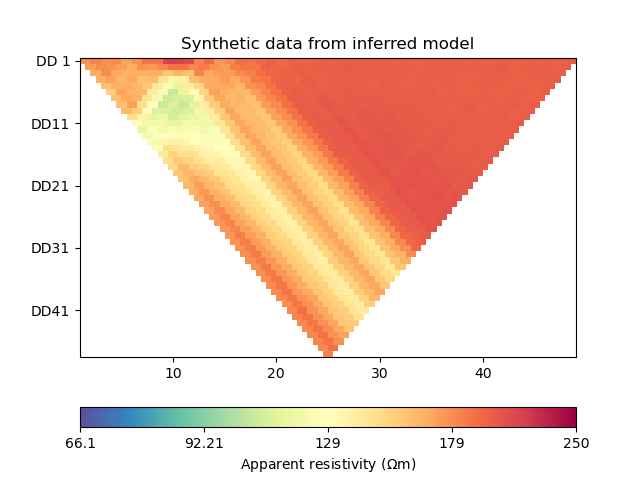
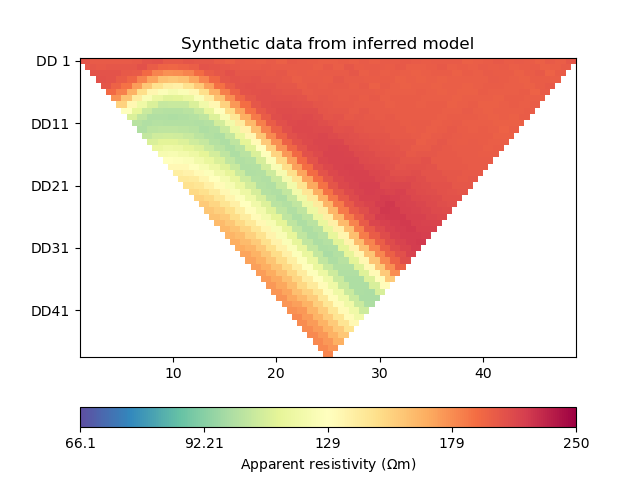
perf: better settings for ERT - torch.otpim

Changed region(s): [[0.125, 0.125, 0.6875, 0.75]]

diff --git a/notebooks/pygimli_ert/pygimli_ert_tri_torch_optim.py b/notebooks/pygimli_ert/pygimli_ert_tri_torch_optim.py
@@ -84,7 +84,7 @@ ert_problem.set_initial_model(start_model_log)
 # CoFI - define InversionOptions
 inv_options_torch = InversionOptions()
 inv_options_torch.set_tool("torch.optim")
-inv_options_torch.set_params(algorithm="RAdam", lr=0.025, num_iterations=10)
+inv_options_torch.set_params(algorithm="LBFGS", num_iterations=2)
 
 # CoFI - define Inversion, run it
 inv = Inversion(ert_problem, inv_options_torch)
